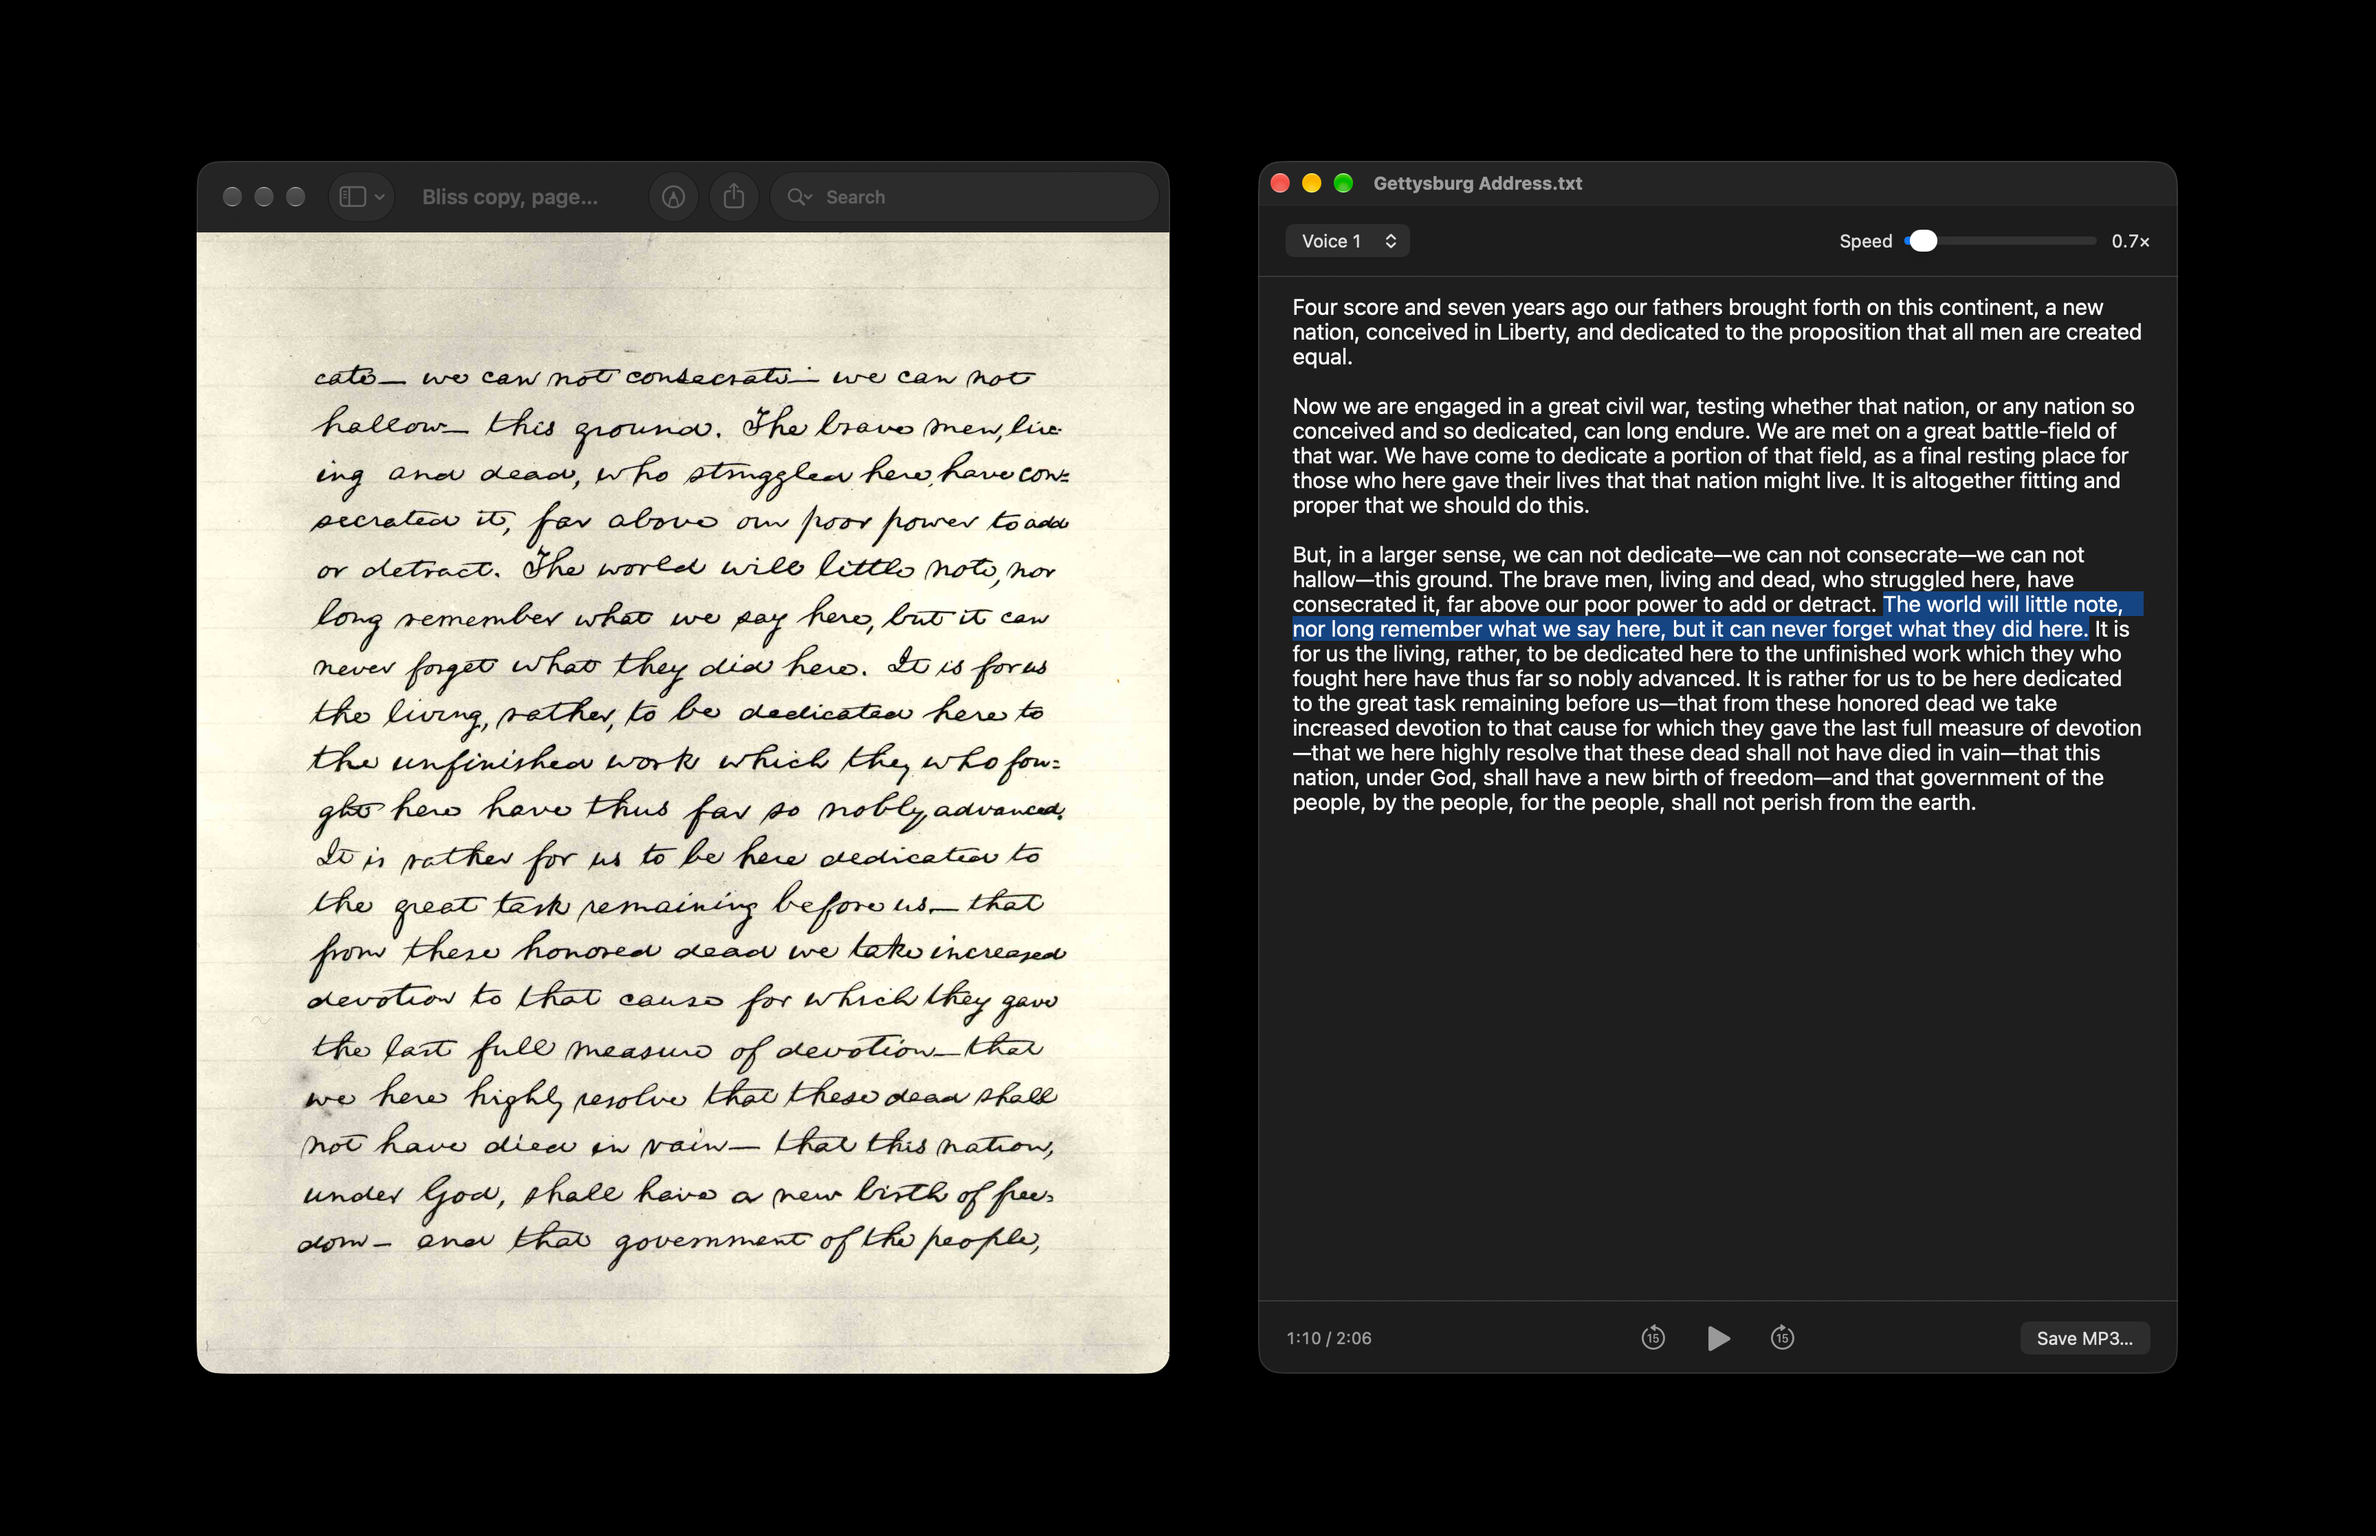
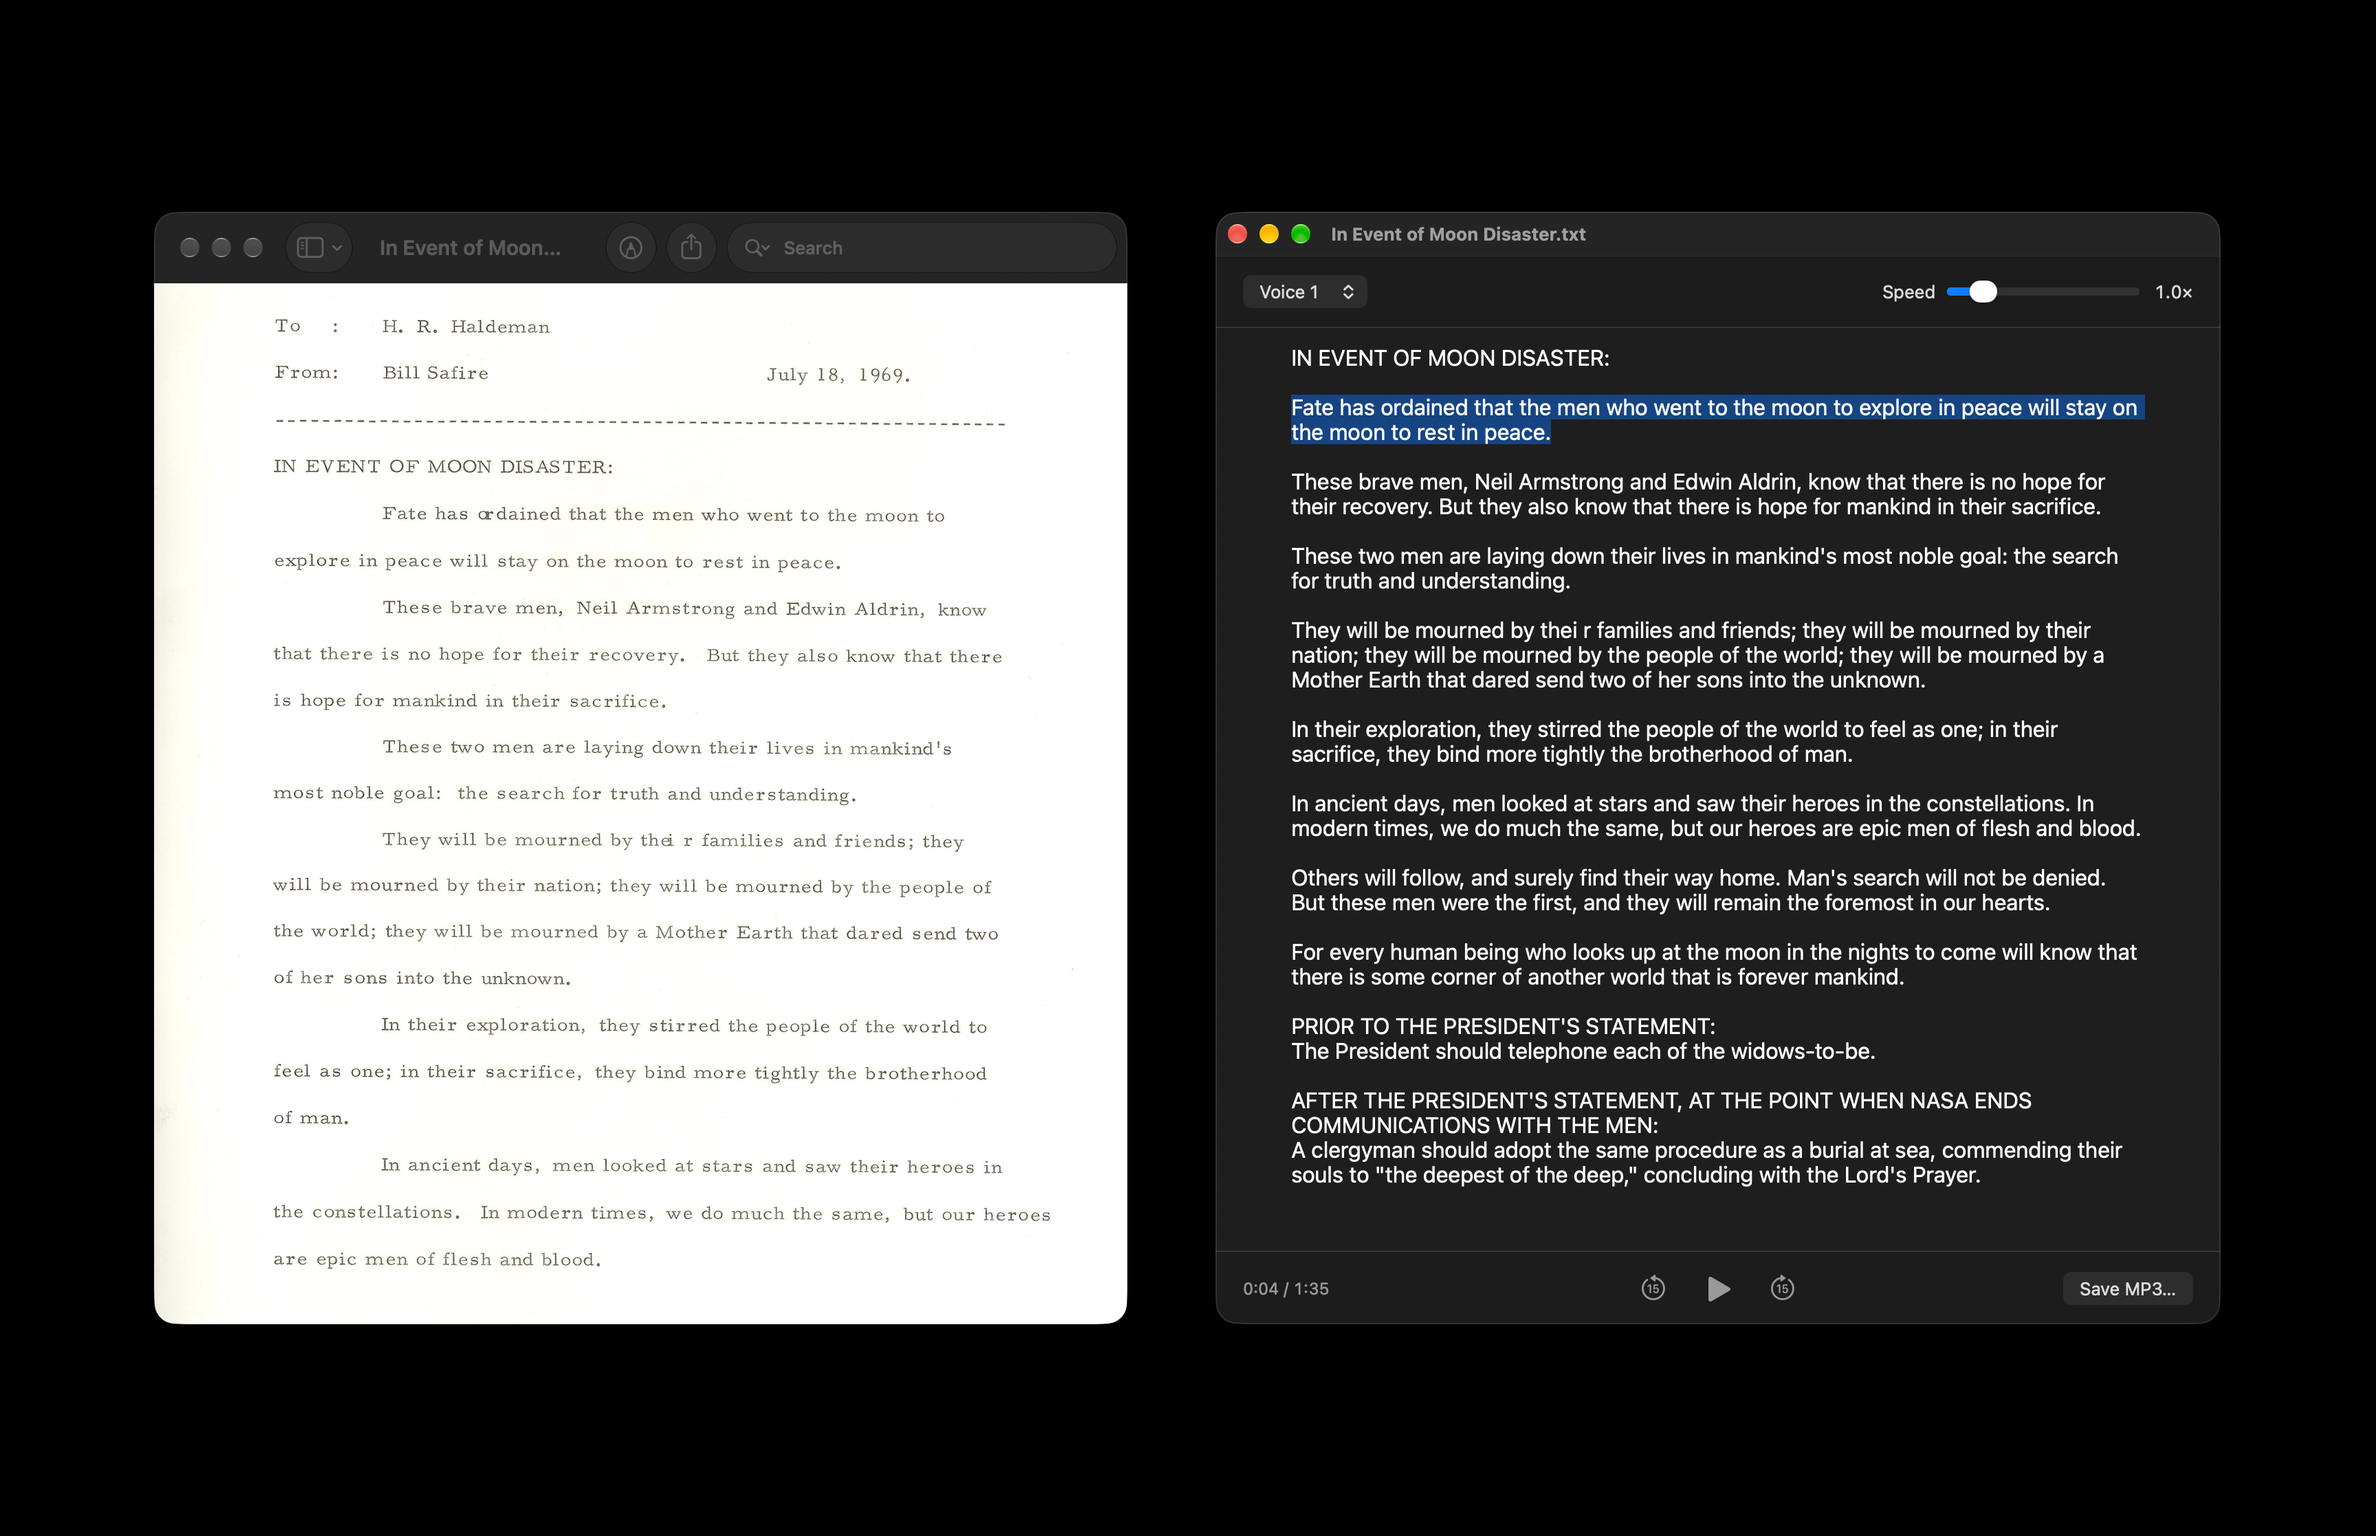
README: new screenshots
Reshot 2026-11-26 on macOS 27, light and dark pairs, lossless WebP.

diff --git a/README.md b/README.md
@@ -4,6 +4,8 @@
 
 Text to speech app for Mac. Reads text aloud with the voices of macOS, Siri’s included, and saves it as MP3.
 
+<picture><source media="(prefers-color-scheme: dark)" srcset="docs/scene.webp"><img src="docs/scene-light.webp" width="830" alt="Safire’s “In Event of Moon Disaster” memo of 18 July 1969 in Preview, and TTS reading its text aloud with Siri’s Voice 1, the first sentence highlighted"></picture>
+
 Apple silicon, macOS 13 or later.
 
 ## Install
